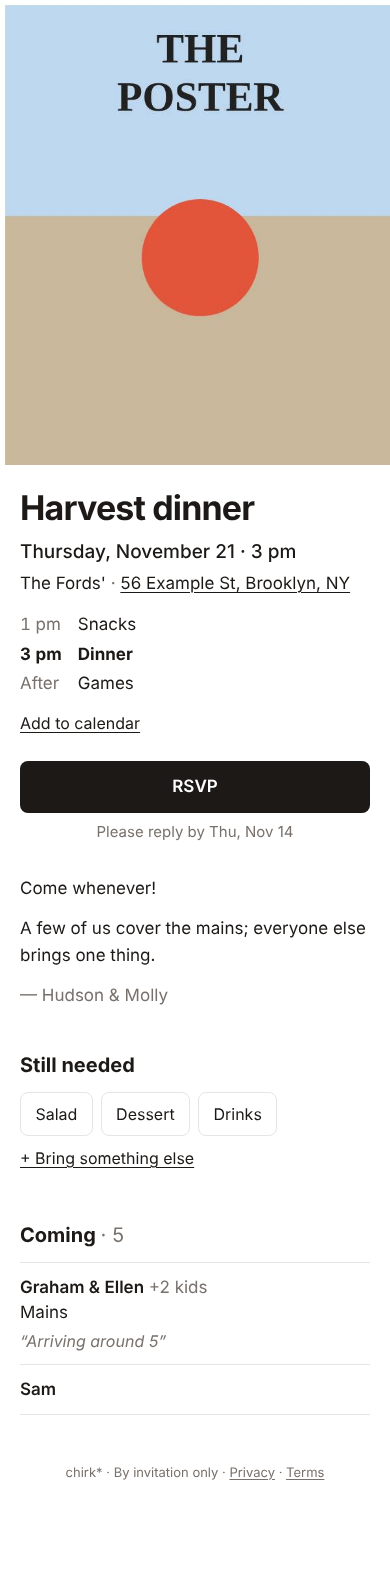
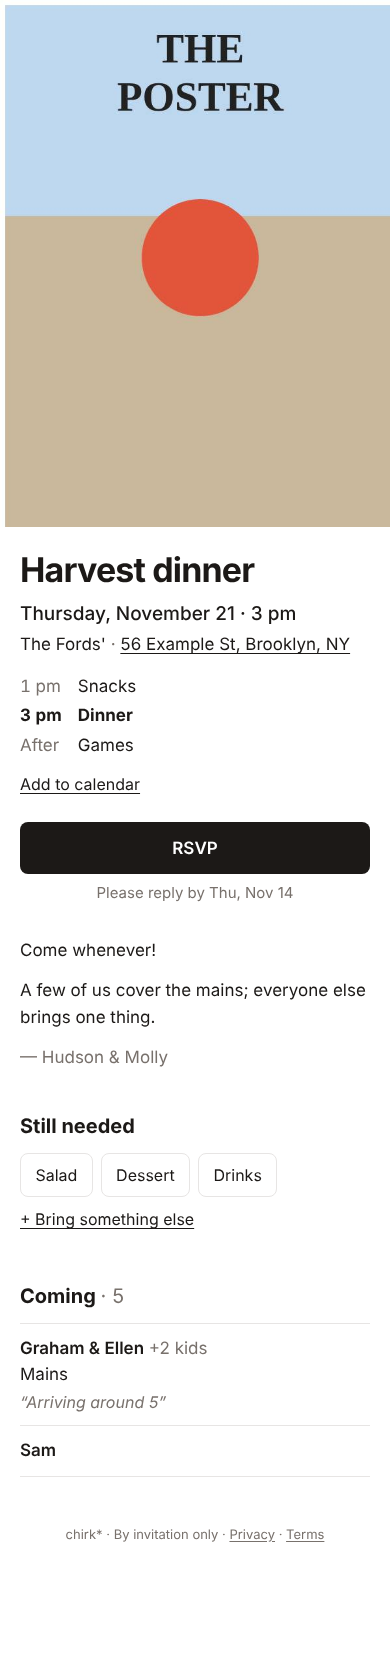
Covers are never cropped on any screen (the phone cap from Nov 14 is gone too)
Claude-Session: https://claude.ai/code/session_01QEhNiqdcSBmSfKonPFu65E

diff --git a/src/components/Cover.tsx b/src/components/Cover.tsx
@@ -6,8 +6,7 @@ import { useEffect, useRef, useState } from "react";
 /**
  * The cover photo. If the link doesn't load, guests simply see no photo (never a broken box),
  * and on the host's form a warning explains why.
- * Full column width at its natural shape. Phones still cap very tall photos at 70% of the screen (trimmed from the bottom,
- * since Nov 14); from 768px wide there's no cap, so nothing is cut.
+ * Full column width at its natural shape, on every screen: never cropped (the photo is the host's, edges and all).
  */
 export function Cover({ src, host = false }: { src: string; host?: boolean }) {
   const ref = useRef<HTMLImageElement>(null);
@@ -25,7 +24,7 @@ export function Cover({ src, host = false }: { src: string; host?: boolean }) {
       </p>
     ) : null;
   }
-  return <img ref={ref} src={src} alt={host ? "Current cover" : ""} onError={() => setBroken(true)} className={host ? "h-auto w-32 rounded-lg" : "h-auto max-h-[70svh] w-full object-cover object-top md:max-h-none"} />;
+  return <img ref={ref} src={src} alt={host ? "Current cover" : ""} onError={() => setBroken(true)} className={host ? "h-auto w-32 rounded-lg" : "h-auto w-full"} />;
 }
 
 /** Resolves to whether an image link loads (used before copying an invite for email). */

diff --git a/DESIGN.md b/DESIGN.md
@@ -1,6 +1,6 @@
 # chirk: design notes (as of Nov 18, 2026)
 
-> **v2 in progress:** the guest flow (invite → RSVP → confirmation) now follows `docs/CHIRK_UI_PATTERNS.md` (monochrome: ink links underlined, ink focus and picked choices via `--color-accent`; 8px buttons; no guest-side boxes or pills that do nothing; desktop covers never cropped). Host pages below still describe the older look until Stage 6. Audit: `docs/UI_AUDIT_V2.md`.
+> **v2 in progress:** the guest flow (invite → RSVP → confirmation) now follows `docs/CHIRK_UI_PATTERNS.md` (monochrome: ink links underlined, ink focus and picked choices via `--color-accent`; 8px buttons; no guest-side boxes or pills that do nothing; covers never cropped). Host pages below still describe the older look until Stage 6. Audit: `docs/UI_AUDIT_V2.md`.
 
 *What chirk is and how we talk about it: LANGUAGE.md. This file is how it looks.*
 
@@ -85,7 +85,7 @@ Times follow a per-event setting: "3 pm" (default) or "3:00 PM".
 
 ## Screens
 **Guest side**
-- **Invite (`/event`):** cover photo full width (tall photos capped at ~70% of the screen height, trimmed from the bottom), title, date and time, place (tap for Maps), "Hosted by" when there's no message, schedule, Add to calendar, the host's message signed "— Hosts", RSVP button with "Please reply by …" under it, Still needed, Coming.
+- **Invite (`/event`):** cover photo full width at its natural shape, never cropped, title, date and time, place (tap for Maps), "Hosted by" when there's no message, schedule, Add to calendar, the host's message signed "— Hosts", RSVP button with "Please reply by …" under it, Still needed, Coming.
 - **RSVP (`/event/rsvp`):** Going / Can't make it, names (+ Add someone, limited by the host), kids if asked, "When are you coming?" if the event asks, what you're bringing (multi-pick chips + add your own), a note (with a hint saying whether it shows on the invite).
 - **Your reply (`/event/r/<token>`):** "You're in!", what you're bringing, when you're coming, keep-your-link card, Change my reply.
 - **Home (`chirk.fyi`):** "chirk / By invitation only", plus "Your plans" for events this phone replied to.

diff --git a/STATUS.md b/STATUS.md
@@ -14,8 +14,8 @@ Everything up to Nov 16's "fixes-3":
 - Gift exchange: who's in, never-draw pairs, rules, draws, matches by email, reminders
 - Hosts added to their own guest lists as going (new events, co-hosts, copies only)
 
-## Waiting to go live (branch `mono-cover`)
-- **Cover regression fixed:** Stage 3's desktop cap (`md:max-h-[55vh]`) plus the existing `object-cover object-top` cropped the Thanksgiving poster by 196px at 1280×900 (273px on a 760px-tall laptop). From 768px wide the cap is gone: the photo shows whole at full column width (measured: 0px cut). Phones unchanged (a 70%-of-screen cap from Nov 14 still trims very tall photos; 62px of the poster; open question).
+## Went live Nov 18 (`mono-cover`)
+- **Cover regression fixed:** Stage 3's desktop cap (`md:max-h-[55vh]`) plus the existing `object-cover object-top` cropped the Thanksgiving poster by 196px at 1280×900 (273px on a 760px-tall laptop). From 768px wide the cap is gone: the photo shows whole at full column width (measured: 0px cut). The phone cap (70% of the screen, since Nov 14) is gone too: covers are never cropped on any screen.
 - **Guest UI back to monochrome:** chirk blue removed; links ink and underlined, picked choices ink outline + ✓, ink focus ring. All via `--color-accent` (ink for now), so a brand color is one value later. Baselines re-captured.
 
 ## Went live Nov 18 (`guest-v2`): UI v2, Stage 3 guest slice

diff --git a/docs/CHIRK_UI_PATTERNS.md b/docs/CHIRK_UI_PATTERNS.md
@@ -72,8 +72,7 @@ No new primary button: the reply is done.
 
 ## Cover photo
 
-- Full width of the column at the photo's **natural shape; never cropped** from 768px wide (no height cap there).
-- Phones still cap very tall photos at 70% of the screen height, trimmed from the bottom (since Nov 14). *Open: this crops tall photos (62px of the Thanksgiving poster); removing the cap would show them whole.*
+- Full width of the column at the photo's **natural shape, never cropped**, on every screen (no height cap; decided Nov 18). A very tall photo can fill the first screen on a phone; that's the host's choice to make.
 
 ## When optional content is absent
 
